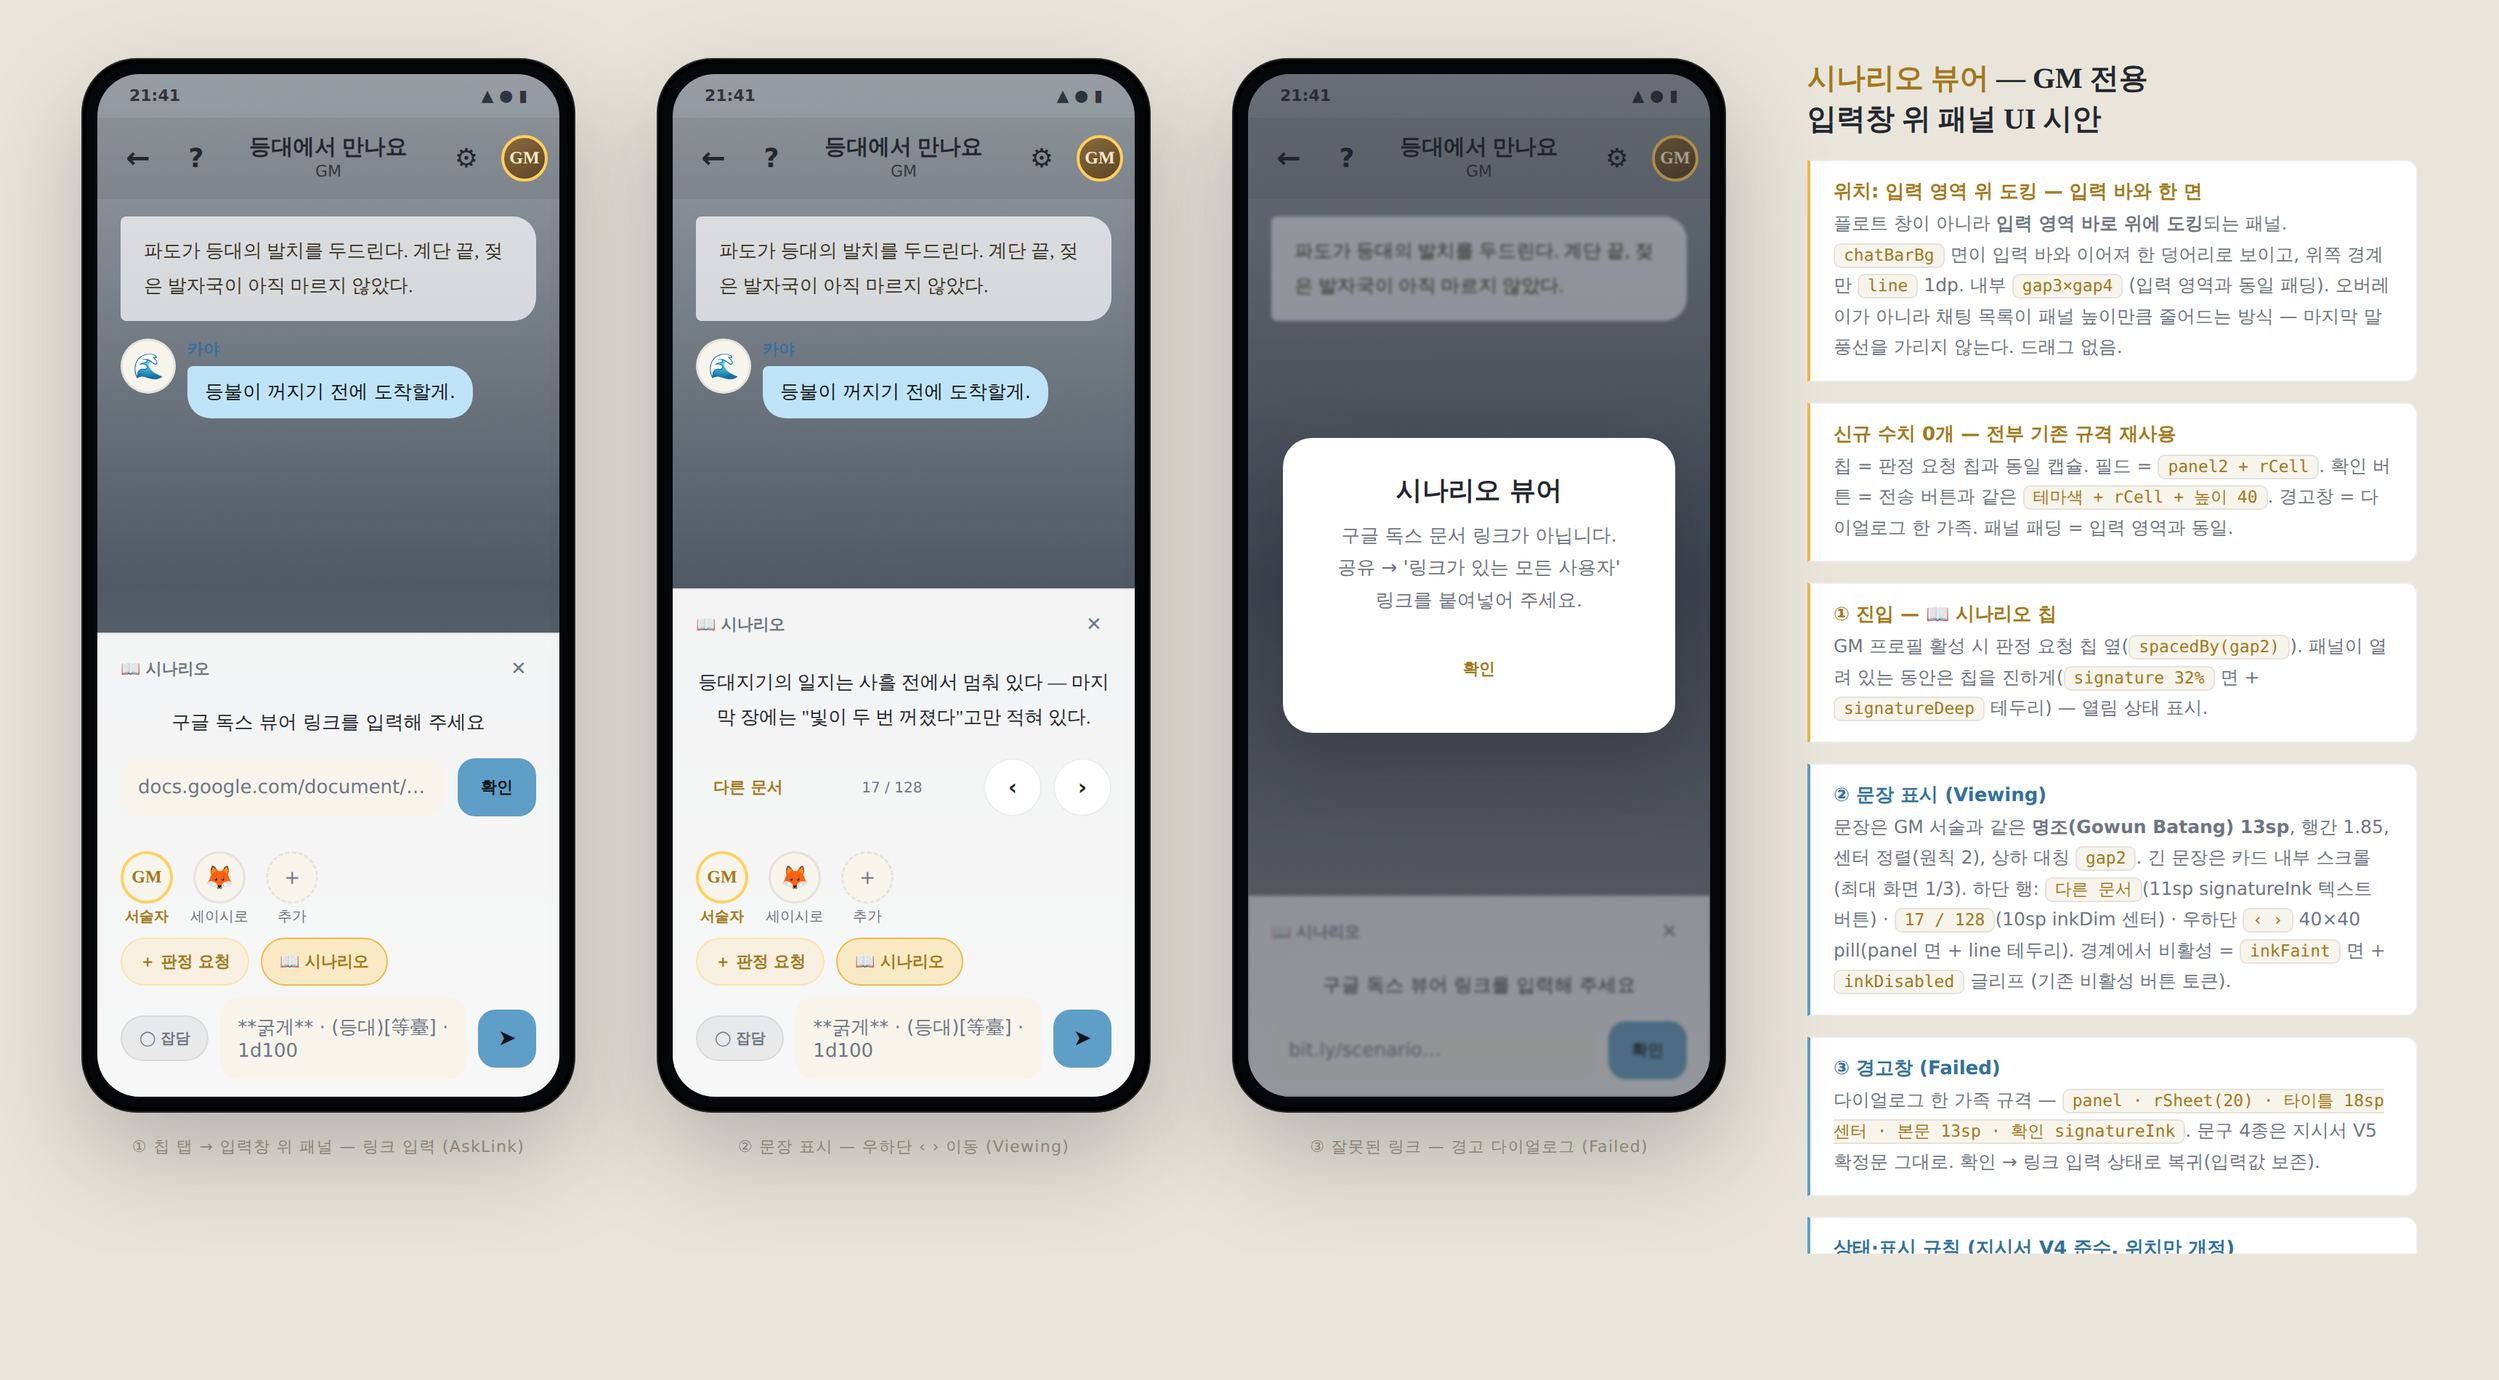
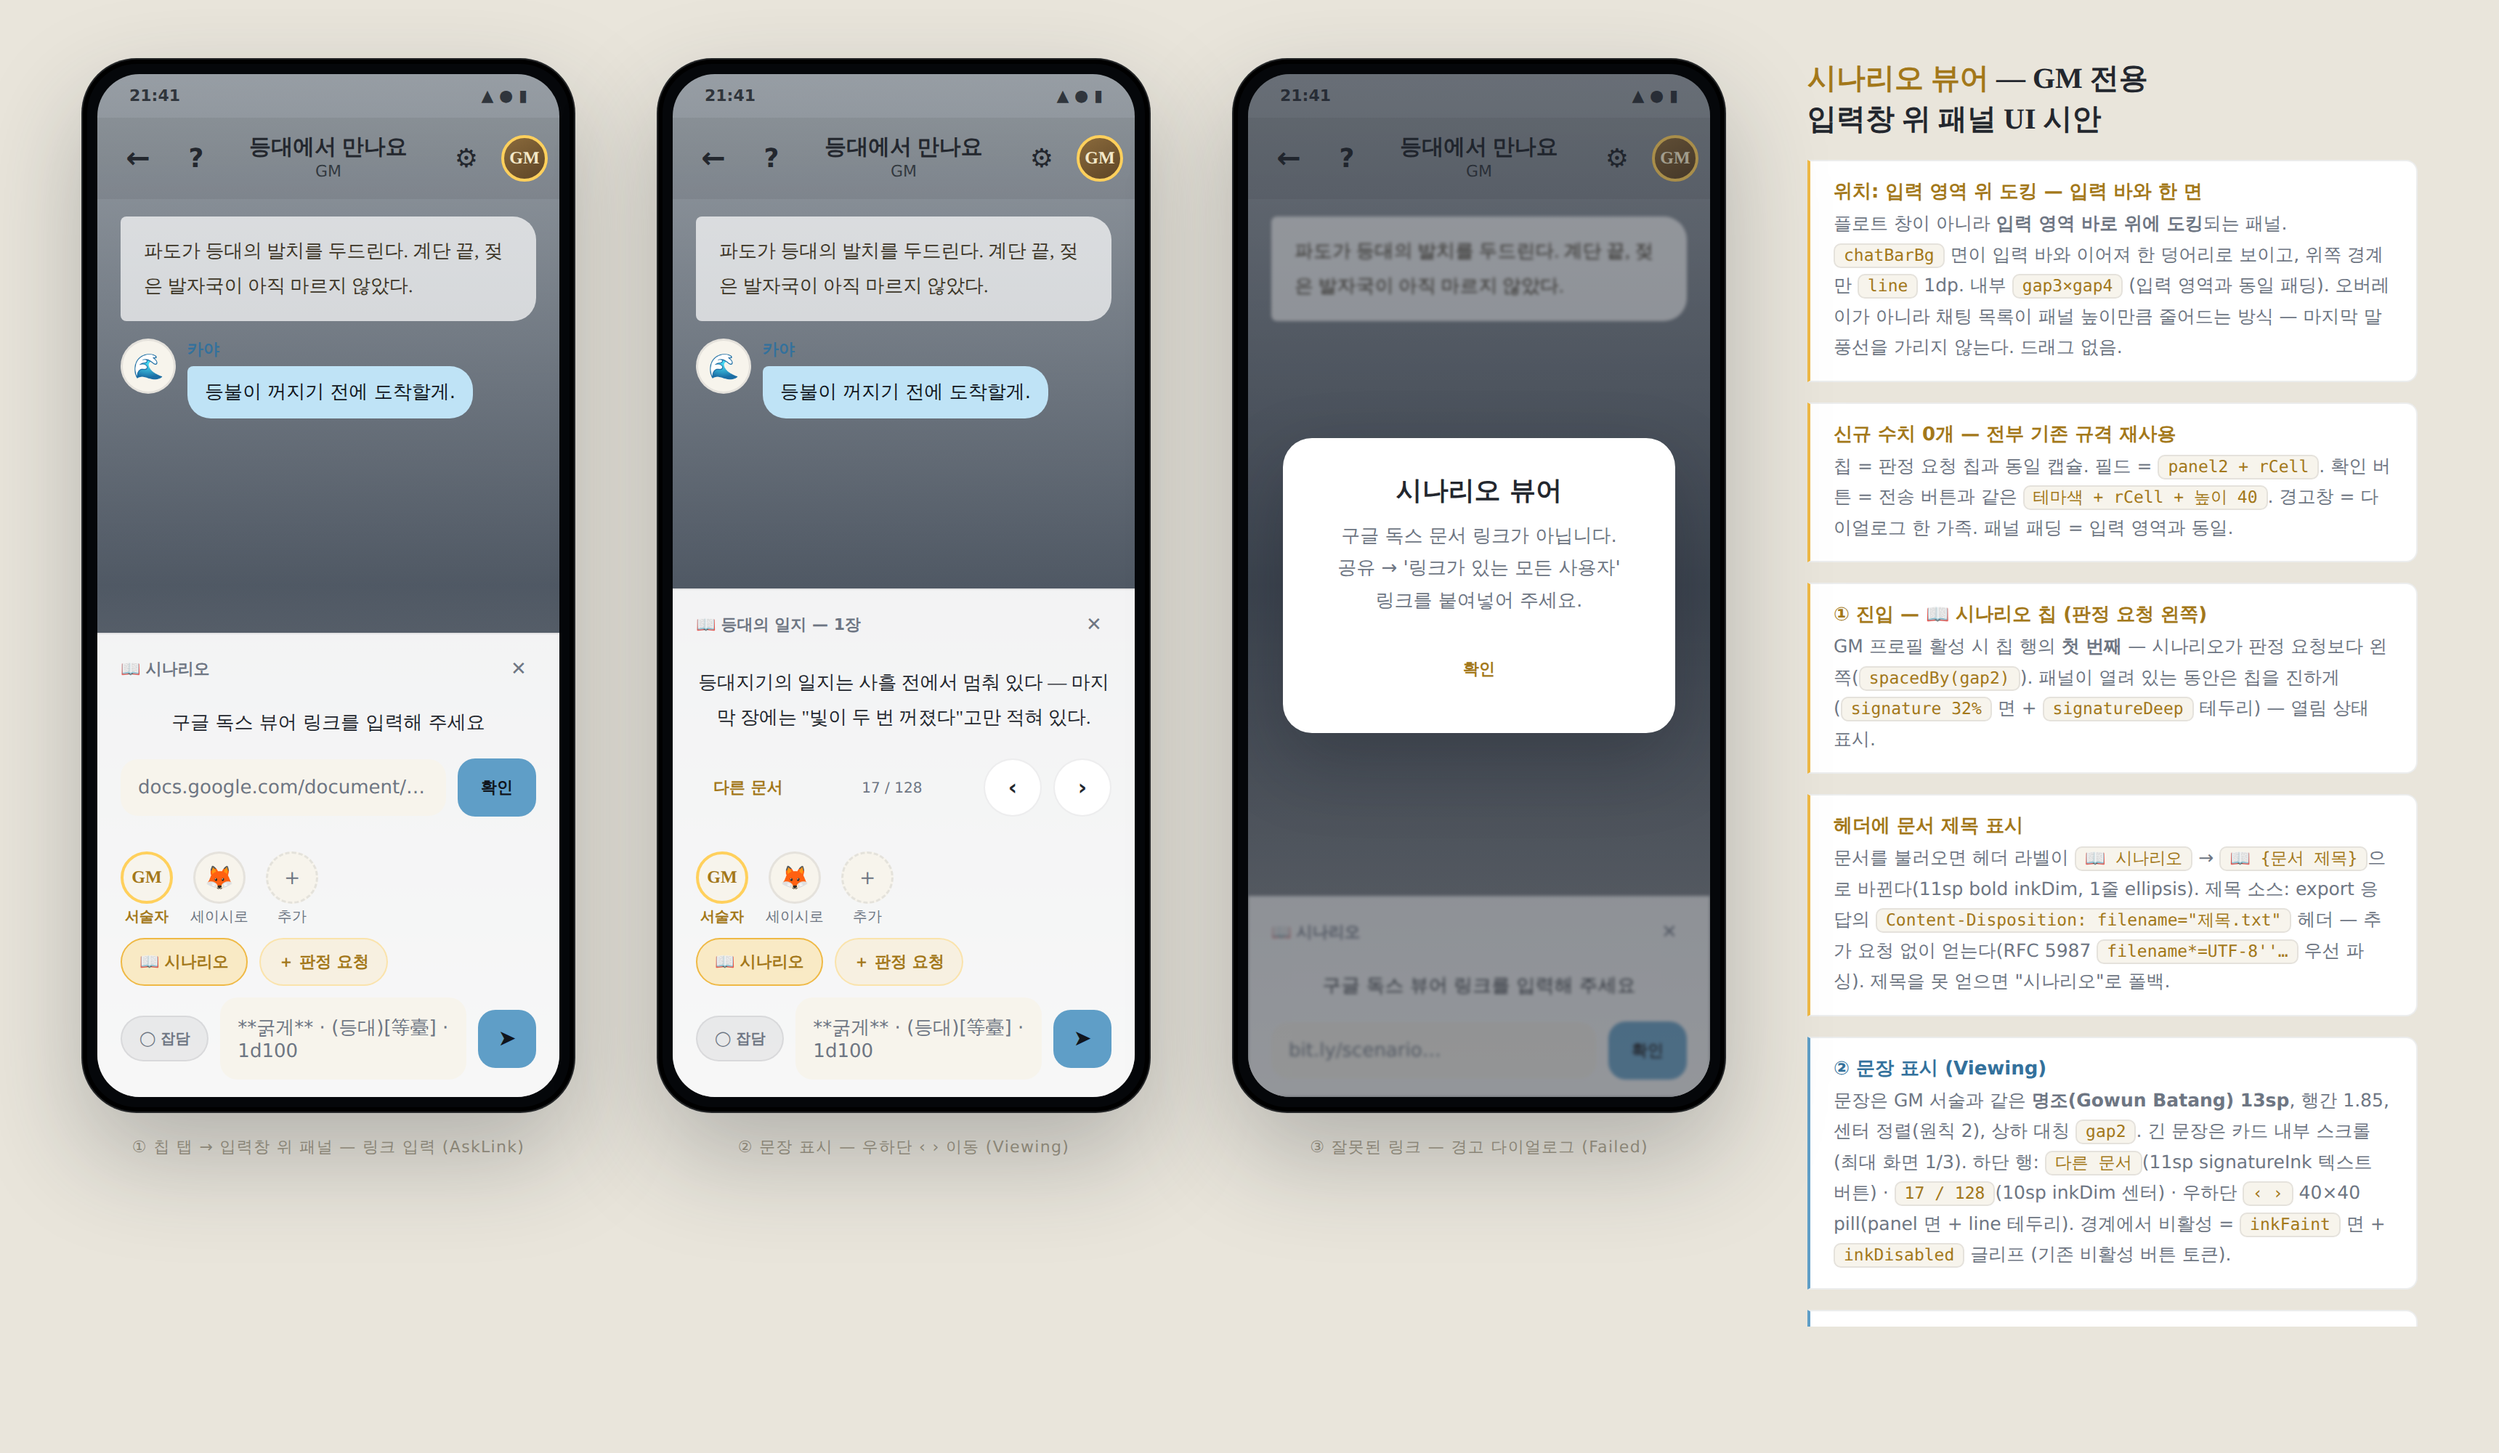
시안 수정 — 시나리오 칩을 판정 요청 왼쪽으로, 뷰어 헤더에 문서 제목
문서 로드 후 헤더 라벨이 '📖 시나리오' → '📖 {문서 제목}' (1줄 ellipsis).
제목 소스는 export 응답 Content-Disposition filename — 추가 요청 없음,
실패 시 '시나리오' 폴백.

Claude-Session: https://claude.ai/code/session_01Lyf9YMsjapJLGsQ8FsfG9Q

diff --git a/docs/mockups/mockup-scenario-viewer.html b/docs/mockups/mockup-scenario-viewer.html
@@ -164,8 +164,8 @@ body{
           <div class="p"><div class="a" style="border-style:dashed">＋</div>추가</div>
         </div>
         <div class="chiprow">
-          <div class="chip">＋ 판정 요청</div>
           <div class="chip hot">📖 시나리오</div>
+          <div class="chip">＋ 판정 요청</div>
         </div>
         <div class="inputrow">
           <div class="ooc">◯ 잡담</div>
@@ -208,7 +208,7 @@ body{
       <!-- 시나리오 패널: Viewing -->
       <div class="dock">
         <div class="f-head">
-          <div class="f-label">📖 시나리오</div>
+          <div class="f-label">📖 등대의 일지 — 1장</div>
           <div class="f-x">✕</div>
         </div>
         <div class="f-sentence">등대지기의 일지는 사흘 전에서 멈춰 있다 — 마지막 장에는 "빛이 두 번 꺼졌다"고만 적혀 있다.</div>
@@ -227,8 +227,8 @@ body{
           <div class="p"><div class="a" style="border-style:dashed">＋</div>추가</div>
         </div>
         <div class="chiprow">
-          <div class="chip">＋ 판정 요청</div>
           <div class="chip hot">📖 시나리오</div>
+          <div class="chip">＋ 판정 요청</div>
         </div>
         <div class="inputrow">
           <div class="ooc">◯ 잡담</div>
@@ -306,10 +306,21 @@ body{
     </div>
 
     <div class="note y">
-      <h4>① 진입 — 📖 시나리오 칩</h4>
-      <p>GM 프로필 활성 시 판정 요청 칩 옆(<code>spacedBy(gap2)</code>).
-      패널이 열려 있는 동안은 칩을 진하게(<code>signature 32%</code> 면 +
-      <code>signatureDeep</code> 테두리) — 열림 상태 표시.</p>
+      <h4>① 진입 — 📖 시나리오 칩 (판정 요청 왼쪽)</h4>
+      <p>GM 프로필 활성 시 칩 행의 <b>첫 번째</b> — 시나리오가 판정 요청보다
+      왼쪽(<code>spacedBy(gap2)</code>). 패널이 열려 있는 동안은 칩을
+      진하게(<code>signature 32%</code> 면 + <code>signatureDeep</code>
+      테두리) — 열림 상태 표시.</p>
+    </div>
+
+    <div class="note y">
+      <h4>헤더에 문서 제목 표시</h4>
+      <p>문서를 불러오면 헤더 라벨이 <code>📖 시나리오</code> →
+      <code>📖 {문서 제목}</code>으로 바뀐다(11sp bold inkDim, 1줄
+      ellipsis). 제목 소스: export 응답의 <code>Content-Disposition:
+      filename="제목.txt"</code> 헤더 — 추가 요청 없이 얻는다(RFC 5987
+      <code>filename*=UTF-8''…</code> 우선 파싱). 제목을 못 얻으면
+      "시나리오"로 폴백.</p>
     </div>
 
     <div class="note">
